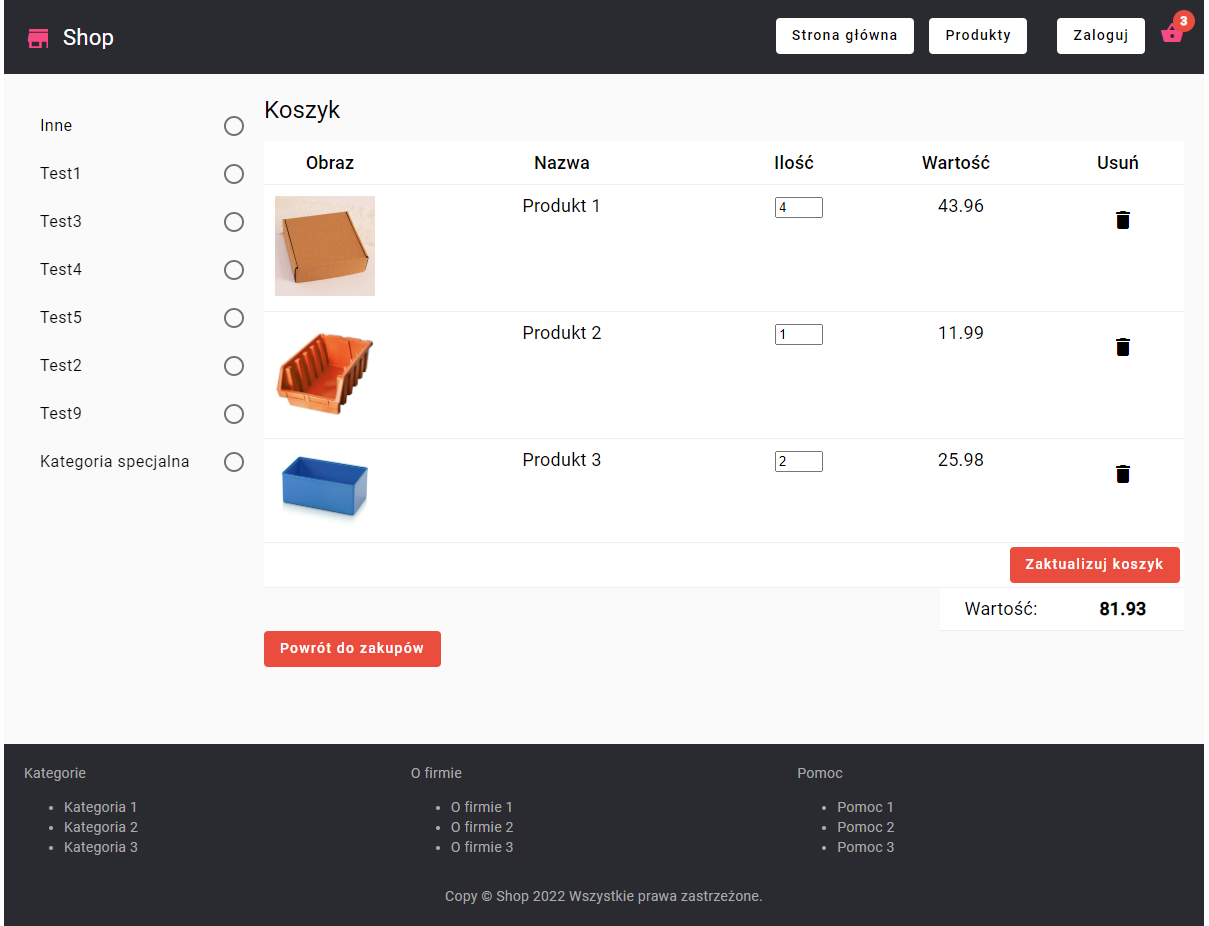
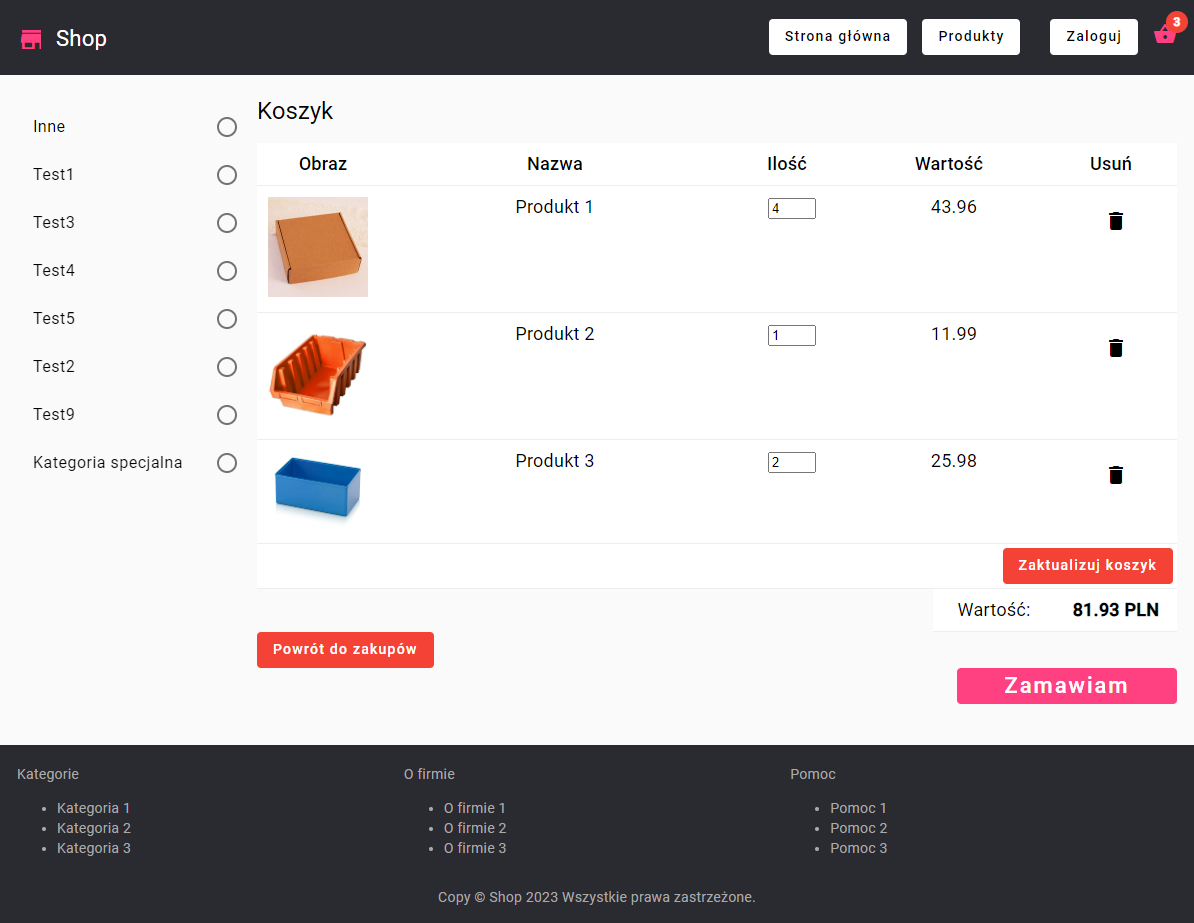
Updated README

diff --git a/README.md b/README.md
@@ -1,9 +1,11 @@
 # Shop App (frontend)
 This project was generated with [Angular CLI](https://github.com/angular/angular-cli) version 15.2.4.
 This is the frontend part of the online shop's web application. The application uses the REST API of 
-the backend part. Currently, the admin can manage products, categories and reviews. The customer can 
-browse products by category, add opinions and add products to the cart. Work in progress on 
-the sales process (order and payment processing) and user login.
+the backend part. Currently, the admin can manage products, categories, reviews, shipments, payments 
+and orders. The customer can browse products by category, add opinions, add products to the cart and
+place orders. The admin can also export orders from a selected period to a CSV file and view a 
+sales chart for the current month (using Chart.js). Work in progress on a user login process and 
+integration with a payment gateway.
 - --
 ## Technologies
 * Node.js 18.15.0
@@ -28,5 +30,11 @@ npm start (alias for command: ng serve --proxy-config proxy.config.json)
 ### Customer's cart page after adding products:
 ![screenshot_cart](https://github.com/mateusz-konczal/shop-app-frontend/blob/master/readme/screenshot_cart.png?raw=true)
 
-### Managing product reviews in the shop admin panel:
-![screenshot_reviews](https://github.com/mateusz-konczal/shop-app-frontend/blob/master/readme/screenshot_reviews.png?raw=true)
+### Listing of orders in shop admin panel:
+![screenshot_admin_orders](https://github.com/mateusz-konczal/shop-app-frontend/blob/master/readme/screenshot_admin_orders.png?raw=true)
+
+### Managing product reviews in shop admin panel:
+![screenshot_admin_reviews](https://github.com/mateusz-konczal/shop-app-frontend/blob/master/readme/screenshot_admin_reviews.png?raw=true)
+
+### Export of orders from a selected period to a CSV file in shop admin panel:
+![screenshot_admin_export](https://github.com/mateusz-konczal/shop-app-frontend/blob/master/readme/screenshot_admin_export.png?raw=true)
